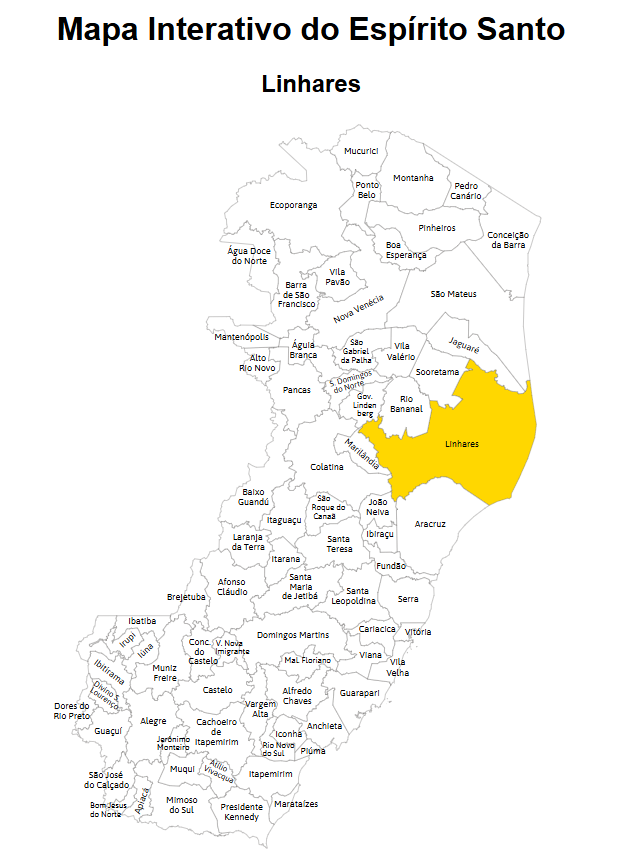
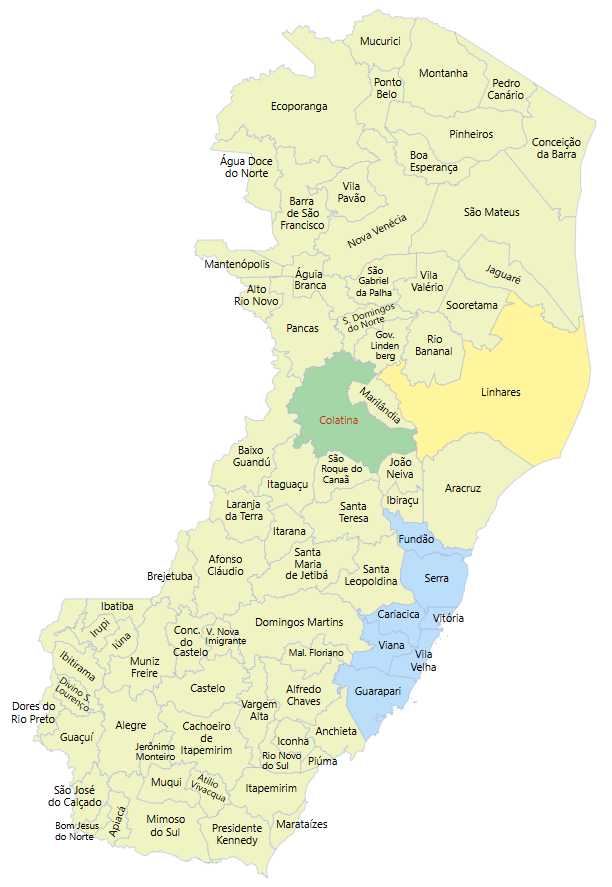
readme - inclusão de imagem do mapa

diff --git a/README.md b/README.md
@@ -4,15 +4,14 @@ Crie um gráfico do estado do Espírito Santo, totalmente customizável e iterat
 
 ### Link para demonstração: https://luclorencini.github.io
 
+![Logo do Projeto](assets/mapa-exemplo.png)
+
 #### Funcionalidades principais
 
 - Inicialização do mapa SVG com eventos de hover e interação.
 - Manipulação dos traçados dos municípios, incluindo alteração de cor e visibilidade.
 - Manipulação dos nomes dos municípios, incluindo alteração de cor, estilo (negrito) e visibilidade.
 - Eventos interativos para destacar municípios ao passar o mouse.
-
-
-<!--![Logo do Projeto](assets/mapa-exemplo.png)-->
 
 ## Índice
 
